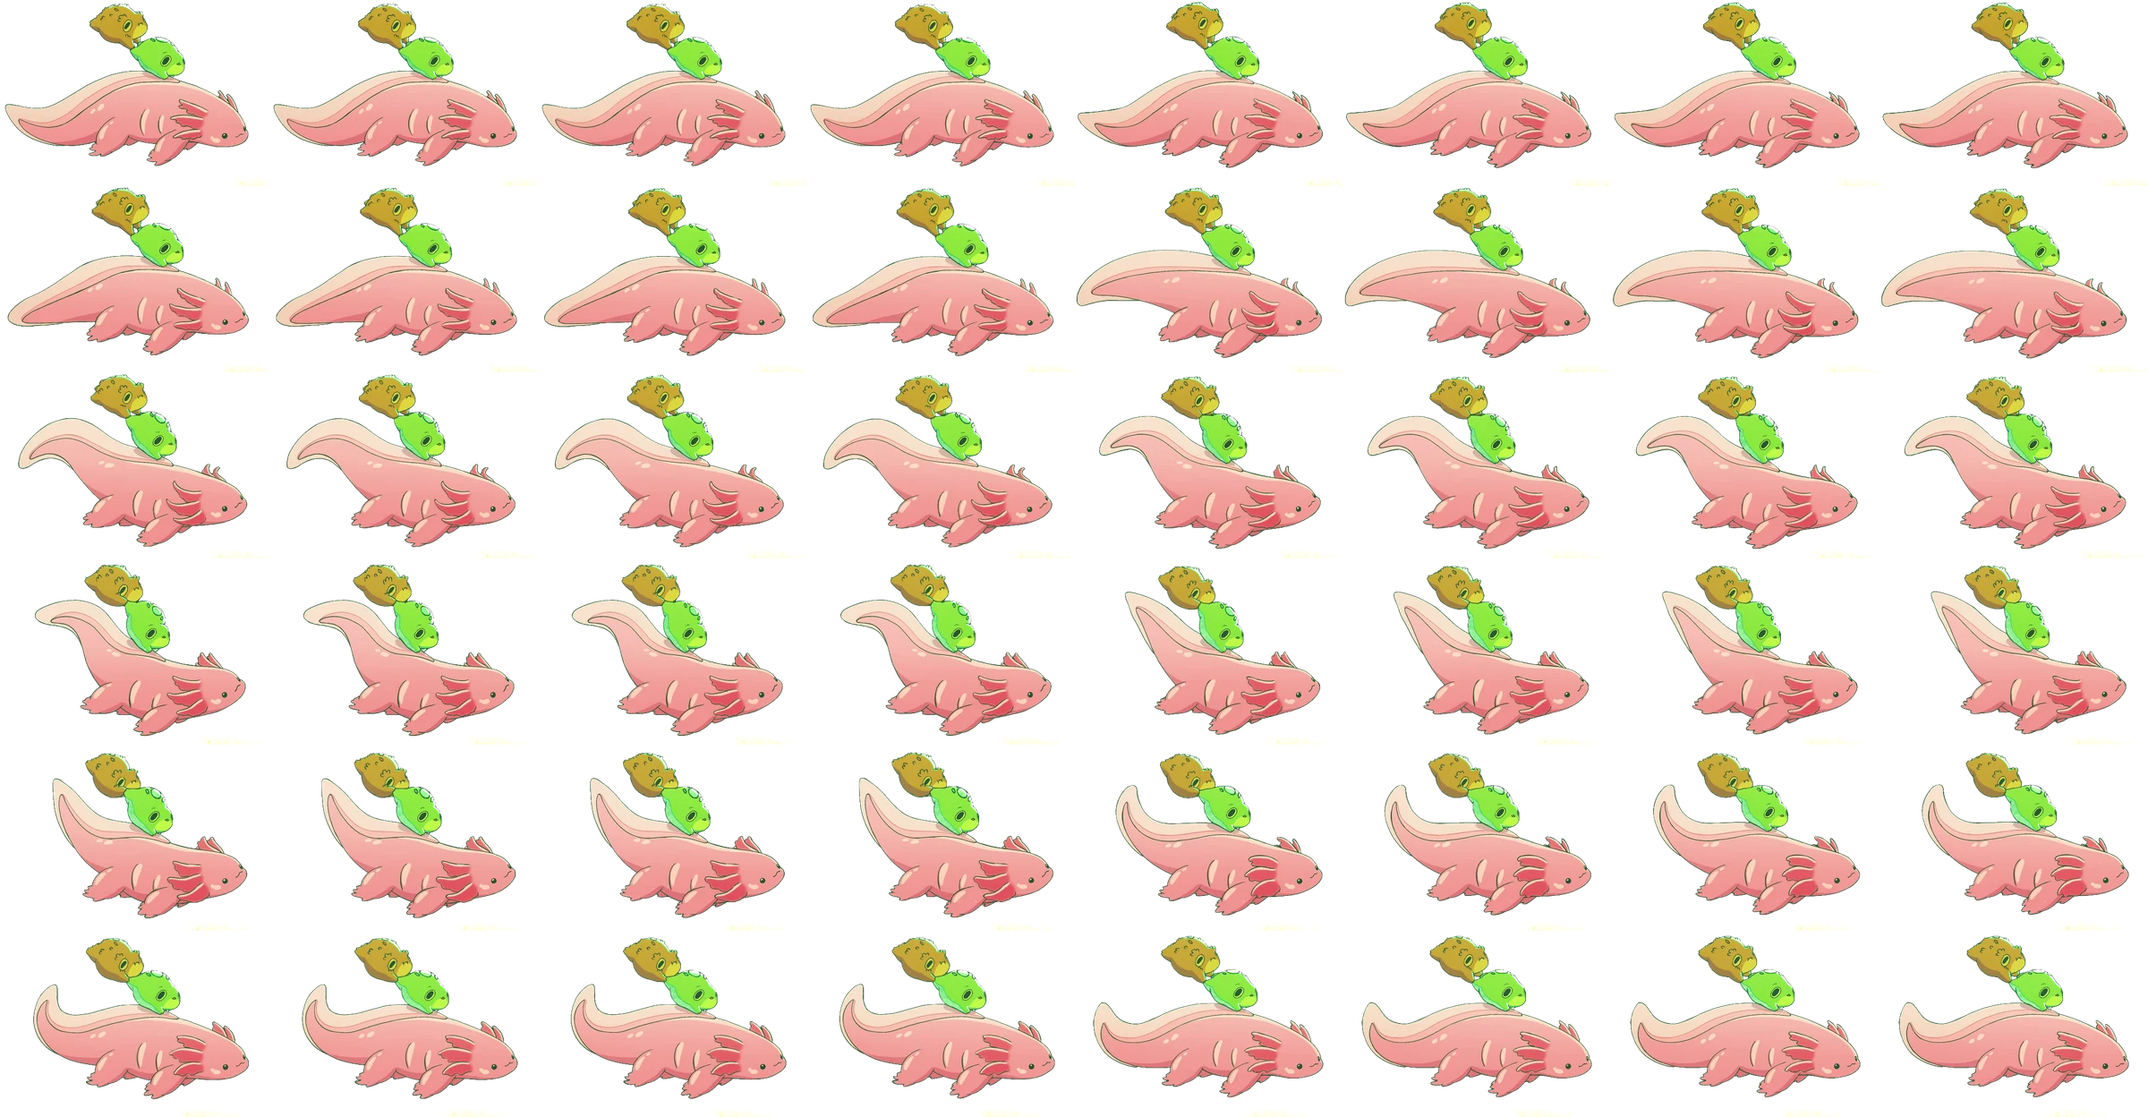
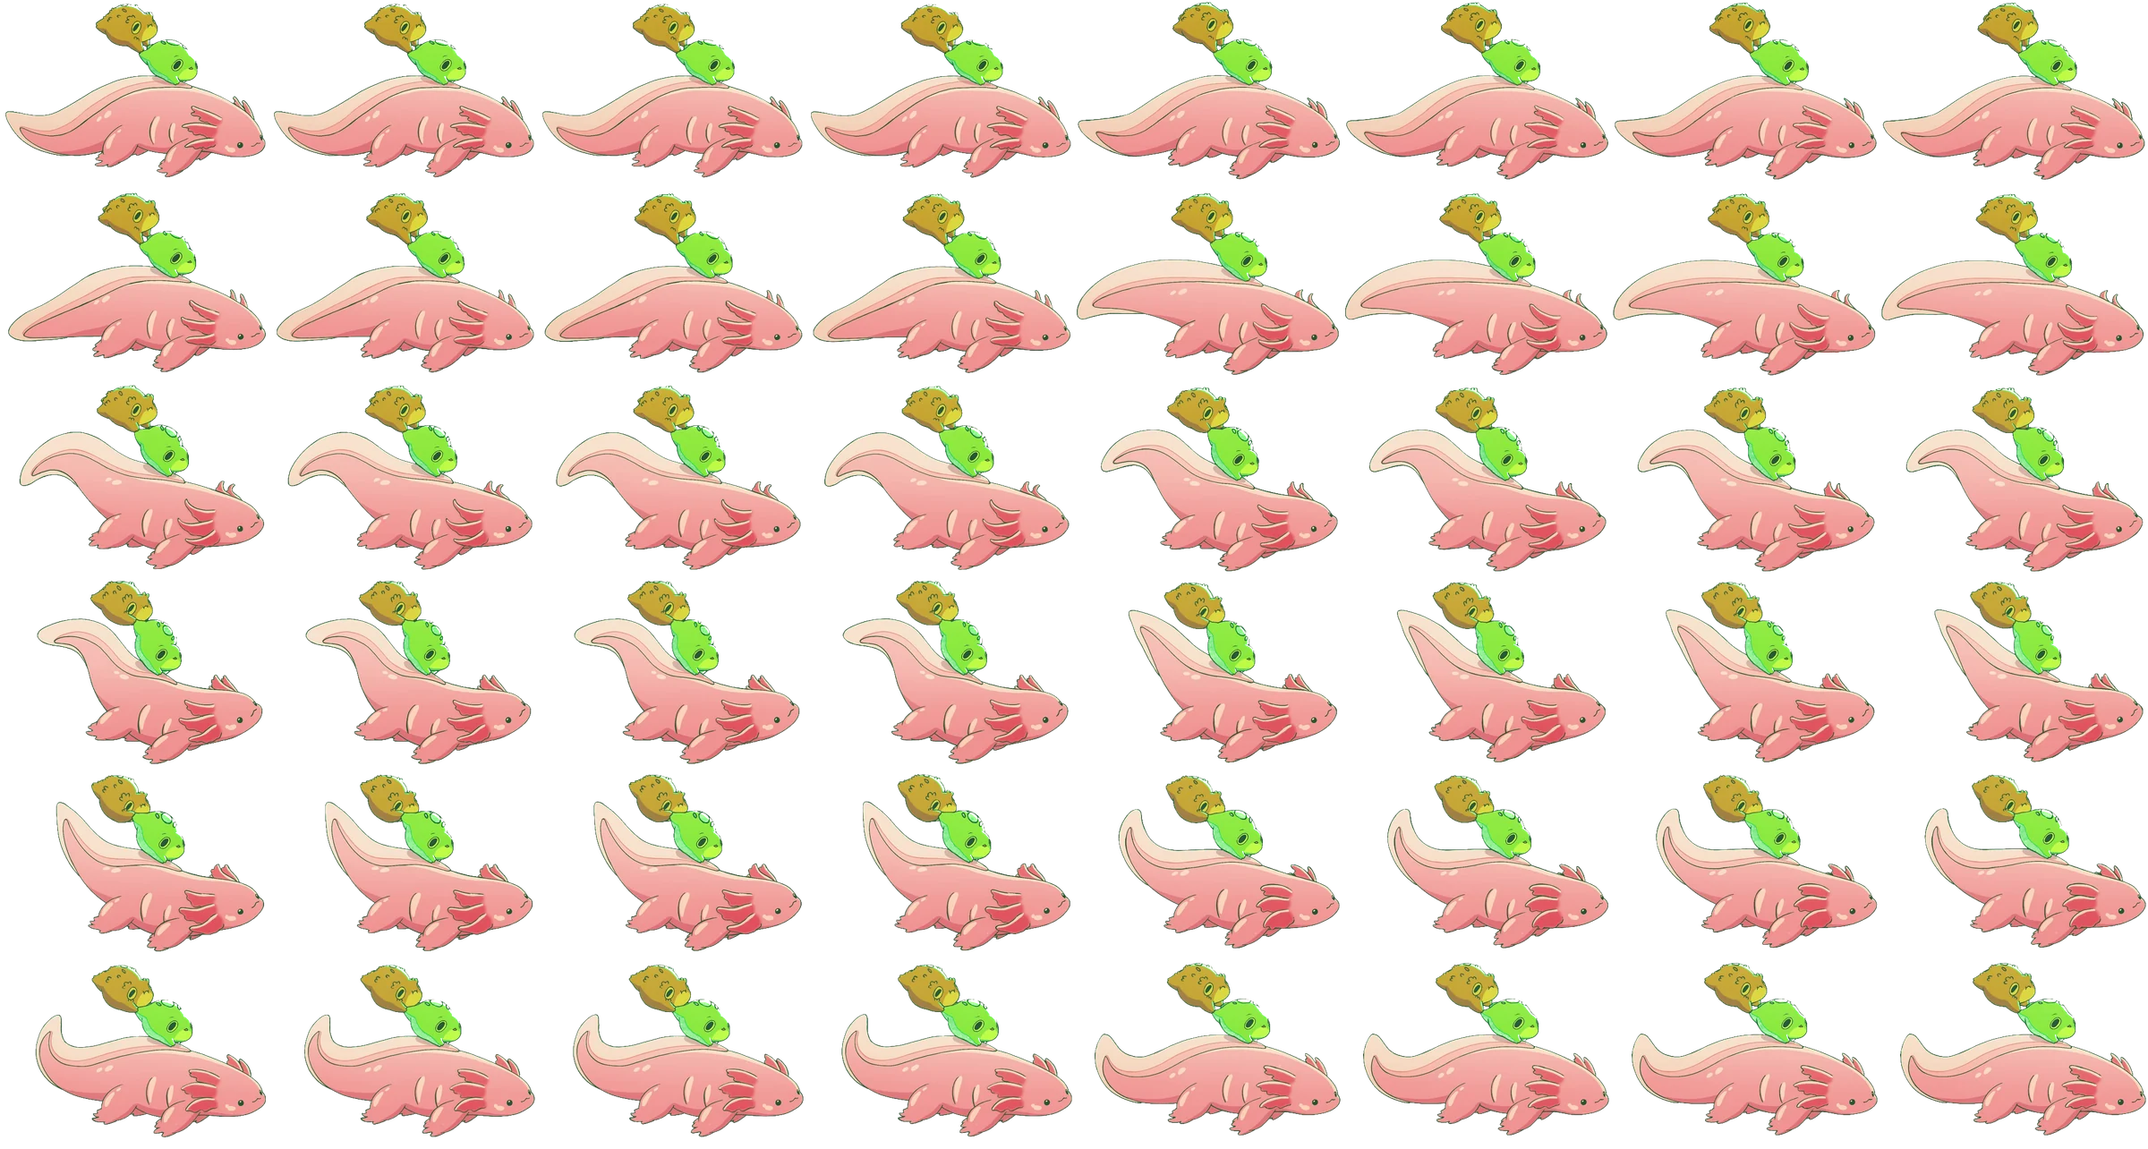
Let the swimmer roam the water like a fish and flee the cursor
The sprite sheets are keyed again keeping only the body's largest connected
piece, so the pale streak of water that survived under the head is gone.

The swimmer now picks a spot in the open water, swims there in a gentle
meandering arc, then picks the next; crossing to the other side of the text
it goes round along the top or bottom of the water, and it is only softened
behind the text where there is no water to go round by. It always moves the
way it points, comes round to swim along an edge rather than into it, and a
cursor coming close startles it into a dart along one held line of flight,
after which it chooses a new destination ahead rather than turning back. It
no longer emits into the fluid.

Changed region(s): [[0.0, 0.0, 1.0, 1.0]]

diff --git a/src/features/apply/axolotl.ts b/src/features/apply/axolotl.ts
@@ -1,13 +1,14 @@
-// The projects page's swimmer: a 2-second swim loop (public/scenes/apply/axolotl-*.webp) that hovers in the open
-// water beside the reading column the way an axolotl hangs in a tank: it drifts up, down, a little forward and
-// back, tilting with its motion, always facing the same way (it never turns around), and a burst of water nearby
-// (the pointer, an idle splat) carries it along for a moment before it settles again. It is always on screen and
-// adds nothing to the fluid itself.
+// The projects page's swimmer: a 2-second swim loop (public/scenes/apply/axolotl-*.webp) that swims the screen like
+// a fish in open water. It always moves the way it points: it picks a spot in the open water, swims there in a
+// gentle arc, then picks the next. Now and then it crosses to the other side of the reading column, going over or
+// under the text where there is water (softened behind it where there is not), and a cursor coming close startles it
+// into a quick dart away. It changes side only through a steep bank, where a mirrored body looks the same, and never
+// emits anything.
 
 export type AxolotlSheet = { src: string; frameWidth: number; frameHeight: number; frames: number; columns: number; fps: number };
 export const axolotlSheets = {
-  large: { src: 'scenes/apply/axolotl-480.webp', frameWidth: 480, frameHeight: 333, frames: 48, columns: 8, fps: 24 },
-  small: { src: 'scenes/apply/axolotl-300.webp', frameWidth: 300, frameHeight: 208, frames: 48, columns: 8, fps: 24 },
+  large: { src: 'scenes/apply/axolotl-480.webp', frameWidth: 480, frameHeight: 343, frames: 48, columns: 8, fps: 24 },
+  small: { src: 'scenes/apply/axolotl-300.webp', frameWidth: 300, frameHeight: 214, frames: 48, columns: 8, fps: 24 },
 } satisfies Record<string, Omit<AxolotlSheet, 'src'> & { src: string }>;
 
 export type AxolotlOptions = {
@@ -19,6 +20,8 @@ export type AxolotlOptions = {
 
 const lerp = (a: number, b: number, t: number) => a + (b - a) * t;
 const clamp = (v: number, lo: number, hi: number) => Math.max(lo, Math.min(hi, v));
+/** The shortest signed turn from one heading to another, in radians. */
+const turnTo = (from: number, to: number) => Math.atan2(Math.sin(to - from), Math.cos(to - from));
 
 export function mountAxolotl(canvas: HTMLCanvasElement, options: AxolotlOptions) {
   const { sheet, width, reduced = false } = options;
@@ -34,57 +37,117 @@ export function mountAxolotl(canvas: HTMLCanvasElement, options: AxolotlOptions)
   let loaded = false, failed = false;
   void image.decode().then(() => { loaded = true; }).catch(() => { failed = true; });
 
-  // The tank: the screen minus the header and footer, with room for the body, so nothing is ever clipped.
+  // The water: the screen minus the header and footer, with room for the body, so nothing is ever clipped.
   let viewW = innerWidth, viewH = innerHeight, insetTop = 0, insetBottom = 0;
-  const roomX = width * .5 + 12, roomY = height * .5 + 12;
-  const tank = () => ({ left: roomX, right: Math.max(roomX, viewW - roomX), top: insetTop + roomY, bottom: Math.max(insetTop + roomY, viewH - insetBottom - roomY) });
+  const room = Math.max(width, height) * .5 + 10;
+  const water = () => ({ left: room, right: Math.max(room, viewW - room), top: insetTop + room, bottom: Math.max(insetTop + room, viewH - insetBottom - room) });
   const seed = Math.random() * 100;
-  // Centre, velocity, the way it faces (fixed), its tilt, the current carrying it, and its own swim clock.
-  let x = viewW * .9, y = viewH * .55, vx = 0, vy = 0, facing = -1, pitch = 0, time = 0, driftX = 0, driftY = 0, swim = 0;
+  // Centre, heading (radians, screen coordinates), the side the body shows, its drawn flip, a startle, and its swim clock.
+  let x = viewW * .82, y = viewH * .55, heading = Math.PI * 1.02, facing = -1, flip = -1, time = 0, swim = 0;
+  let fright = 0, fleeHeading = 0, flee = false;
+  // Where it is swimming to, the waypoints round the text on the way there, and when (and for which text) it chose.
+  let goalX = viewW * .2, goalY = viewH * .5, route: { x: number; y: number }[] = [], chose = 0, chosenFor = -1, keepOutVersion = 0;
+  const open = (px: number, py: number) => !keepOut || px < keepOut.left - width / 2 || px > keepOut.right + width / 2 || py < keepOut.top - height / 2 || py > keepOut.bottom + height / 2;
+  const side = (px: number) => keepOut ? Math.sign(px - (keepOut.left + keepOut.right) / 2) : 0;
+  const cruise = () => clamp(viewW / 32, 36, 56); // CSS px/s
   let keepOut: DOMRect | null = null, dim = 1;
 
-  const hover = (dt: number) => {
+  const steer = (dt: number) => {
     time += dt;
-    const box = tank();
-    // Its patch of water: the open strip beside the reading column, or the whole tank when there is none (phones,
-    // where it softens under the text instead). It faces the column.
-    let left = box.left, right = box.right;
-    if (keepOut) {
-      const rightRoom = box.right - (keepOut.right + width / 2), leftRoom = (keepOut.left - width / 2) - box.left;
-      if (Math.max(rightRoom, leftRoom) >= 30) {
-        if (rightRoom >= leftRoom) { left = Math.min(box.right, keepOut.right + width / 2); facing = -1; } else { right = Math.max(box.left, keepOut.left - width / 2); facing = 1; }
+    const box = water();
+    if (chose === 0 || time - chose > 40 || Math.hypot(goalX - x, goalY - y) < 64 || (chosenFor !== keepOutVersion && !open(goalX, goalY))) {
+      // Somewhere new to go: open water, clear of the edges, a real journey away, more often on this side of the text than across it.
+      const margin = 44, anyY = () => box.top + margin + Math.random() * Math.max(1, box.bottom - box.top - margin * 2);
+      let found = false;
+      for (let attempt = 0; attempt < 16 && !found; attempt++) {
+        goalX = box.left + margin + Math.random() * Math.max(1, box.right - box.left - margin * 2);
+        goalY = anyY();
+        found = open(goalX, goalY) && Math.hypot(goalX - x, goalY - y) >= Math.max(150, width) && (flee ? ((goalX - x) * Math.cos(heading) + (goalY - y) * Math.sin(heading)) / Math.hypot(goalX - x, goalY - y) > .3 : side(goalX) === side(x) || Math.random() < .4);
       }
+      if (!found && keepOut) {
+        // No luck (the water is mostly text): the strip of open water beside the text on this side, if there is one.
+        const leftStrip = keepOut.left - width / 2 - 12 - (box.left + margin), rightStrip = box.right - margin - (keepOut.right + width / 2 + 12);
+        if (side(x) < 0 ? leftStrip > 0 : rightStrip > 0) {
+          goalX = side(x) < 0 ? box.left + margin + Math.random() * leftStrip : box.right - margin - Math.random() * rightStrip;
+          goalY = anyY();
+        }
+      }
+      // Across the text it goes round, along the water over or under the column from the near corner to the far one;
+      // straight through where there is no water to go round by.
+      route = [];
+      if (keepOut && side(goalX) !== side(x)) {
+        const over = keepOut.top - height / 2 - 12, beneath = keepOut.bottom + height / 2 + 12;
+        const canOver = over > box.top, canBeneath = beneath < box.bottom;
+        if (canOver || canBeneath) {
+          const goOver = canOver && (!canBeneath || Math.abs(y - over) <= Math.abs(y - beneath));
+          const laneY = goOver ? (box.top + over) / 2 : (beneath + box.bottom) / 2;
+          const leftOf = keepOut.left - width / 2 - 12, rightOf = keepOut.right + width / 2 + 12;
+          route = side(x) < 0 ? [{ x: leftOf, y: laneY }, { x: rightOf, y: laneY }] : [{ x: rightOf, y: laneY }, { x: leftOf, y: laneY }];
+        }
+      }
+      chose = time; chosenFor = keepOutVersion; flee = false;
     }
-    const cx = (left + right) / 2, cy = (box.top + box.bottom) / 2, halfW = Math.max(0, (right - left) / 2), halfH = Math.max(0, (box.bottom - box.top) / 2);
-    // Where it would like to be drifts slowly around the patch, so it is always moving a little and never the same way twice.
-    const tx = cx + (Math.sin(time * .21 + seed) * .6 + Math.sin(time * .053 + seed * 2) * .4) * halfW * .8;
-    const ty = cy + (Math.sin(time * .17 + seed * 3) * .6 + Math.sin(time * .071 + seed * 4) * .4) * halfH * .85;
-    // It eases toward that point like something floating, and the current fades over a second or two.
-    const decay = Math.exp(-dt * 2.2);
-    driftX *= decay; driftY *= decay;
-    vx += ((tx - x) * .35 - vx * 1.1) * dt; vy += ((ty - y) * .35 - vy * 1.1) * dt;
-    x = clamp(x + (vx + driftX) * dt, left, right);
-    y = clamp(y + (vy + driftY) * dt, box.top, box.bottom);
-    // The tail works harder when it moves; the body tilts a little into rises and dives.
-    const speed = Math.hypot(vx + driftX, vy + driftY);
-    swim += dt * (.45 + Math.min(1.2, speed / 40));
-    pitch = lerp(pitch, clamp(Math.atan2(facing * (vy + driftY), Math.max(30, Math.abs(vx + driftX))) * .9, -.4, .4), 1 - Math.exp(-dt * 3));
+    while (route.length && Math.hypot(route[0].x - x, route[0].y - y) < 64) route.shift();
+    const target = route[0] ?? { x: goalX, y: goalY };
+    // The course it would like: toward the next point of its journey, with a slow meander so no two journeys look alike
+    // (straightening as it arrives, none on the lane round the text), eased off the edges of the text and turned back before
+    // the edges of the water.
+    const reach = Math.hypot(target.x - x, target.y - y) || 1;
+    const meander = route.length ? 0 : (Math.sin(time * .23 + seed) * .55 + Math.sin(time * .071 + seed * 2) * .45) * .5 * Math.min(1, reach / 220);
+    const course = fright > 0 ? fleeHeading : Math.atan2(target.y - y, target.x - x) + meander;
+    let dx = Math.cos(course), dy = Math.sin(course);
+    const push = (distance: number, nx: number, ny: number) => {
+      if (distance >= 80) return;
+      const k = 1 - Math.max(0, distance) / 80;
+      dx += nx * k * 1.4; dy += ny * k * 1.4;
+    };
+    // (Going round the text it swims the lane along the top or bottom of the water on purpose, so that edge does not push.)
+    const lane = route.length ? route[0].y : null;
+    push(x - box.left, 1, 0); push(box.right - x, -1, 0);
+    if (lane === null || lane > (box.top + box.bottom) / 2) push(y - box.top, 0, 1);
+    if (lane === null || lane < (box.top + box.bottom) / 2) push(box.bottom - y, 0, -1);
+    if (keepOut && !route.length) {
+      const px = clamp(x, keepOut.left, keepOut.right), py = clamp(y, keepOut.top, keepOut.bottom);
+      const ax = x - px, ay = y - py, distance = Math.hypot(ax, ay), range = width * .75;
+      if (distance > 0 && distance < range) { const k = 1 - distance / range; dx += (ax / distance) * k * 1.6; dy += (ay / distance) * k * 1.6; }
+    }
+    if (fright > 0) {
+      // Startled, it holds its line of flight, fast, calming down over a second or so; then it wants somewhere new ahead.
+      fright = Math.max(0, fright - dt / 1.3);
+      if (fright === 0) chose = 0;
+    }
+    // Gentle, wide arcs: the turn is rate limited.
+    const rate = fright > 0 ? 4.5 : 1.1;
+    heading += clamp(turnTo(heading, Math.atan2(dy, dx)), -rate * dt, rate * dt);
+    // It only ever moves the way it points. A stroke every two seconds, the length of the sheet's loop.
+    const speed = cruise() * (1 + .14 * Math.sin(time * Math.PI)) * (1 + 1.8 * fright);
+    const nx = x + Math.cos(heading) * speed * dt, ny = y + Math.sin(heading) * speed * dt;
+    x = clamp(nx, box.left, box.right); y = clamp(ny, box.top, box.bottom);
+    // Pressed against an edge of the water it comes round to swim along it, never into it.
+    if ((ny > box.bottom && Math.sin(heading) > 0) || (ny < box.top && Math.sin(heading) < 0)) heading += clamp(turnTo(heading, Math.cos(heading) >= 0 ? 0 : Math.PI), -3 * dt, 3 * dt);
+    if ((nx > box.right && Math.cos(heading) > 0) || (nx < box.left && Math.cos(heading) < 0)) heading += clamp(turnTo(heading, Math.sin(heading) >= 0 ? Math.PI / 2 : -Math.PI / 2), -3 * dt, 3 * dt);
+    // The side it shows changes only while it points almost straight up or down, where the mirrored body looks the same.
+    if (Math.cos(heading) > .3) facing = 1; else if (Math.cos(heading) < -.3) facing = -1;
+    flip = lerp(flip, facing, 1 - Math.exp(-dt * 9));
+    swim += dt * (.55 + Math.min(1.6, speed / 45));
   };
 
   let frame = 0, last = performance.now(), hidden = document.hidden, disposed = false;
   const tick = (now: number) => {
     frame = 0;
     if (disposed) return;
-    // Without its sheet (no WebP, offline) there is no swimmer; stop rather than stir the fluid invisibly.
+    // Without its sheet (no WebP, offline) there is no swimmer; stop rather than show nothing moving.
     if (failed) { canvas.style.visibility = 'hidden'; return; }
     const dt = Math.min(.05, Math.max(0, (now - last) / 1000)); last = now;
     if (!hidden) {
-      if (reduced) { x = viewW * .9; y = viewH * .6; pitch = 0; }
-      else hover(dt);
-      // Under the reading column (phones, where it has no patch of its own) the swimmer softens so the text stays legible.
-      const under = !!keepOut && x + width / 2 > keepOut.left && x - width / 2 < keepOut.right && y + height / 2 > keepOut.top && y - height / 2 < keepOut.bottom;
-      dim = lerp(dim, under ? .5 : 1, 1 - Math.exp(-dt * 5));
-      canvas.style.transform = `translate3d(${(x - width / 2).toFixed(1)}px, ${(y - height / 2).toFixed(1)}px, 0) rotate(${pitch.toFixed(3)}rad) scale(${facing}, 1)`;
+      if (reduced) { x = viewW * .82; y = viewH * .6; heading = Math.PI; facing = -1; flip = -1; }
+      else steer(dt);
+      // Behind the reading column it softens so the text stays legible.
+      const under = !!keepOut && x + width / 2 - 12 > keepOut.left && x - width / 2 + 12 < keepOut.right && y + height / 2 - 12 > keepOut.top && y - height / 2 + 12 < keepOut.bottom;
+      dim = lerp(dim, under ? .55 : 1, 1 - Math.exp(-dt * 5));
+      // The sprite points along its heading; on the left-facing side it is the mirrored sprite turned the other way.
+      const angle = facing > 0 ? heading : heading - Math.PI;
+      canvas.style.transform = `translate3d(${(x - width / 2).toFixed(1)}px, ${(y - height / 2).toFixed(1)}px, 0) rotate(${angle.toFixed(3)}rad) scale(${flip.toFixed(3)}, 1)`;
       canvas.style.opacity = dim.toFixed(3);
       canvas.style.visibility = loaded ? 'visible' : 'hidden';
       if (loaded) {
@@ -104,14 +167,19 @@ export function mountAxolotl(canvas: HTMLCanvasElement, options: AxolotlOptions)
   return {
     /** The header and footer heights (CSS px) the swimmer keeps clear of. */
     setInsets(top: number, bottom: number) { insetTop = top; insetBottom = bottom; },
-    /** The box (viewport px) of the step being read: hovered beside on wide screens, softened under elsewhere. */
-    setKeepOut(rect: DOMRect | null) { keepOut = rect; },
-    /** A burst of water at (px, py) moving at (dx, dy) CSS px/s: nearby, it carries the swimmer along for a moment. */
-    nudge(px: number, py: number, dx: number, dy: number) {
-      const range = Math.max(width * 1.6, 220), distance = Math.hypot(px - x, py - y);
-      if (distance > range) return;
-      const k = (1 - distance / range) * .2, cap = 90;
-      driftX = clamp(driftX + dx * k, -cap, cap); driftY = clamp(driftY + dy * k, -cap, cap);
+    /** The box (viewport px) of the step being read: steered around when it can be, softened behind otherwise. */
+    setKeepOut(rect: DOMRect | null) { keepOut = rect; keepOutVersion++; },
+    /** The pointer at (px, py): close enough, it startles the swimmer into a quick dart away. */
+    startle(px: number, py: number) {
+      if (reduced || Math.hypot(px - x, py - y) > Math.max(width * .75, 110)) return;
+      if (fright <= 0) {
+        // A fresh startle: it flees away from the pointer (straight on when touched on the body) and holds that line
+        // until it is calm, when it picks a new destination ahead rather than turning straight back.
+        const ax = x - px, ay = y - py;
+        fleeHeading = Math.hypot(ax, ay) < 30 ? heading : Math.atan2(ay, ax);
+        flee = true; route = [];
+      }
+      fright = 1;
     },
     dispose() { disposed = true; cancelAnimationFrame(frame); document.removeEventListener('visibilitychange', onVisibility); removeEventListener('resize', onResize); },
   };

diff --git a/src/features/apply/applyFlow.ts b/src/features/apply/applyFlow.ts
@@ -61,12 +61,11 @@ export function mountApply(root: HTMLElement) {
   root.dataset.fluid = fluid ? 'on' : 'off';
   if (fluid) {
     let idle = 0;
-    // An idle burst somewhere in the field; the swimmer feels it when it is close.
+    // An idle burst somewhere in the field.
     const burst = () => {
       const sx = Math.random() * fluidCanvas.clientWidth, sy = Math.random() * fluidCanvas.clientHeight;
       const dx = 560 * (Math.random() - .5) / 6, dy = 560 * (Math.random() - .5) / 6;
       fluid?.splat(sx, sy, dx, dy, fluidColor().map(c => c * 10) as [number, number, number]);
-      swimmer?.nudge(sx, sy, dx * 2.5, dy * 2.5);
     };
     const idleSplat = () => {
       if (!document.hidden && !reduced) { burst(); if (Math.random() < .3) burst(); }
@@ -81,18 +80,19 @@ export function mountApply(root: HTMLElement) {
       if (lastPointer) {
         const dt = Math.max(8, now - lastPointer.t) / 1000;
         const dx = (event.clientX - lastPointer.x) / dt, dy = (event.clientY - lastPointer.y) / dt;
-        if (Math.abs(dx) + Math.abs(dy) > 40) { fluid?.splat(event.clientX, event.clientY, dx * .55, dy * .55, undefined, .22); swimmer?.nudge(event.clientX, event.clientY, dx * .35, dy * .35); }
+        if (Math.abs(dx) + Math.abs(dy) > 40) fluid?.splat(event.clientX, event.clientY, dx * .55, dy * .55, undefined, .22);
       }
       lastPointer = { x: event.clientX, y: event.clientY, t: now };
     }, { ...options, passive: true });
     if (!reduced) addEventListener('pointerdown', event => {
       const dx = (Math.random() - .5) * 600, dy = (Math.random() - .5) * 600;
       fluid?.splat(event.clientX, event.clientY, dx, dy, fluidColor().map(c => c * 6) as [number, number, number], .6);
-      swimmer?.nudge(event.clientX, event.clientY, dx, dy);
     }, { ...options, passive: true });
     document.addEventListener('visibilitychange', () => fluid?.setPaused(document.hidden || reduced), options);
     disposers.push(() => { clearTimeout(idle); fluid?.dispose(); });
   }
+  // The cursor coming close to the swimmer startles it into a dart away.
+  addEventListener('pointermove', event => { if (event.pointerType !== 'touch') swimmer?.startle(event.clientX, event.clientY); }, { ...options, passive: true });
   const swimmerCanvas = root.querySelector<HTMLCanvasElement>('[data-apply-swimmer]')!;
   const base = (document.querySelector('base')?.getAttribute('href') ?? '/').replace(/\/?$/, '/');
   const sheet = phone ? axolotlSheets.small : axolotlSheets.large;
